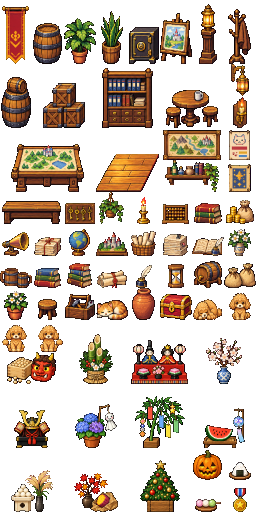
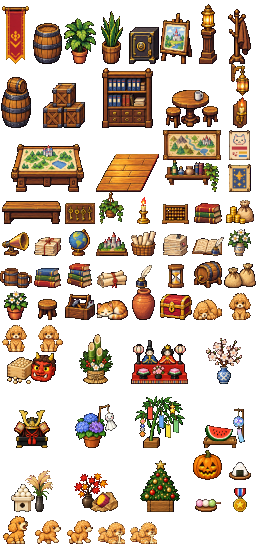
feat: 犬が吠える・横向きに歩く・骨をかじる 5 コマを decor.png に足す（#316）
codex 生成の生成元 3 枚と採用した指示書を assets/decor/ に入れ、
build_decor.py で decor.png の 17 行目に bark-poodle・walk-poodle-a/b・
bone-poodle-a/b を切り出す。縮尺は awake-poodle と同じ 1/4、2 コマの組は
マスの中の同じ窓で切り出して位置をそろえる。既存のコマの画素は変えない。

diff --git a/apps/web/sprite-sheets.test.ts b/apps/web/sprite-sheets.test.ts
@@ -140,9 +140,9 @@ describe('small things sheet (decor.png)', () => {
   const size = pngSize(asset('decor/decor.png'));
   const sheet = pngAlpha(asset('decor/decor.png'));
 
-  it('is 8 x 16 tiles of 32 px and holds every piece', () => {
-    expect(size).toEqual({ width: 8 * DECOR_TILE_SIZE, height: 16 * DECOR_TILE_SIZE });
-    expect(Object.keys(DECOR)).toHaveLength(68);
+  it('is 8 x 17 tiles of 32 px and holds every piece', () => {
+    expect(size).toEqual({ width: 8 * DECOR_TILE_SIZE, height: 17 * DECOR_TILE_SIZE });
+    expect(Object.keys(DECOR)).toHaveLength(73);
     expect(piecesOutside(DECOR, DECOR_TILE_SIZE, size)).toEqual([]);
   });
 
@@ -163,6 +163,18 @@ describe('small things sheet (decor.png)', () => {
       'onigiri',
       'dango',
       'medal',
+    ] as const) {
+      expect(drawnIn(sheet, pieceRect(DECOR[name], DECOR_TILE_SIZE))).toBe(true);
+    }
+  });
+
+  it('has the poodle barking, walking and chewing a bone (Issue #316)', () => {
+    for (const name of [
+      'bark-poodle',
+      'walk-poodle-a',
+      'walk-poodle-b',
+      'bone-poodle-a',
+      'bone-poodle-b',
     ] as const) {
       expect(drawnIn(sheet, pieceRect(DECOR[name], DECOR_TILE_SIZE))).toBe(true);
     }

diff --git a/assets/decor/decor.ts b/assets/decor/decor.ts
@@ -73,6 +73,12 @@ export const DECOR = {
   onigiri: { col: 7, row: 14, w: 1, h: 1 },
   dango: { col: 6, row: 15, w: 1, h: 1 },
   medal: { col: 7, row: 15, w: 1, h: 1 },
+  // The poodle barking, walking and chewing a bone (Issue #316).
+  'bark-poodle': { col: 0, row: 16, w: 1, h: 1 },
+  'walk-poodle-a': { col: 1, row: 16, w: 1, h: 1 },
+  'walk-poodle-b': { col: 2, row: 16, w: 1, h: 1 },
+  'bone-poodle-a': { col: 3, row: 16, w: 1, h: 1 },
+  'bone-poodle-b': { col: 4, row: 16, w: 1, h: 1 },
 } as const;
 
 export type DecorName = keyof typeof DECOR;

diff --git a/assets/decor/build_decor.py b/assets/decor/build_decor.py
@@ -1,7 +1,9 @@
-"""Normalize the codex-generated decor sheets (decor_raw_a/b/poodle/poodle_wag/month/small.png) into decor.png.
+"""Normalize the codex-generated decor sheets (decor_raw_a/b/poodle/poodle_wag/month/small/poodle_bark/
+poodle_walk/poodle_bone.png) into decor.png.
 
 Usage: python build_decor.py <decor_raw_a.png> <decor_raw_b.png> <decor_raw_poodle.png> <decor_raw_poodle_wag.png>
-       <decor_raw_month.png> <decor_raw_small.png> <decor.png>
+       <decor_raw_month.png> <decor_raw_small.png> <decor_raw_poodle_bark.png> <decor_raw_poodle_walk.png>
+       <decor_raw_poodle_bone.png> <decor.png>
 Ran with Python 3.14.7 and Pillow 12.3.0 (installed in a throwaway venv,
 not a project dependency).
 
@@ -21,6 +23,10 @@ prompt-small.txt) are drawn on 256px cells, each a little off the scale of the o
 scaled to its own FIT_SIZE (about 1/4 of the height the prompt asked for) and placed bottom-center
 in the smallest slot it fits. The tankard at the left of decor_raw_small.png is held, so it goes to
 props.png (build_props.py); its part of the sheet is outside RAW's window here and ignored.
+The poodle barking, walking and chewing a bone (decor_raw_poodle_bark/walk/bone.png, prompt-poodle-bark/
+walk/bone.txt, Issue #316) are drawn at awake-poodle's scale and shrunk by SCALE like it. Each is cut at
+its whole region (CROP_TO_REGION), the same window of its 128px cell in both frames of a pair, so the
+two frames line up when shown in turn.
 Keep LAYOUT in sync with decor.ts (checked before building).
 """
 
@@ -36,7 +42,7 @@ from PIL import Image, ImageChops, ImageFilter
 TILE = 32
 SCALE = TILE / 128
 SHEET_COLS = 8
-SHEET_ROWS = 16
+SHEET_ROWS = 17
 # Pieces scaled to this height in px instead of by SCALE, centred on the head: the middle of the
 # opaque run HEAD_ROW of the way down the piece (the wagging poodle's two frames, as tall as
 # awake-poodle).
@@ -45,6 +51,9 @@ HEAD_ROW = 0.3
 # Pieces cut at their region's edge instead of failing when they reach past it: tsukimi as it was
 # cut when the drawings were approved (the tip of the pampas grass right of x 265 left out).
 CLIP_TO_REGION = {"tsukimi"}
+# Pieces cut at their whole region instead of their drawn bbox (the region is the same window of the
+# cell in both frames of a pair, so the frames keep their place in the cell): the poodle of Issue #316.
+CROP_TO_REGION = {"bark-poodle", "walk-poodle-a", "walk-poodle-b", "bone-poodle-a", "bone-poodle-b"}
 # Pieces scaled so one side (h = height, w = width) is this many px instead of by SCALE: the month
 # decorations (Issue #192) and the rewards (Issue #194), at the sizes chosen when they were drawn.
 FIT_SIZE = {
@@ -72,6 +81,9 @@ MIN_PX = 40
 # a dark blend with the magenta key become the outline colour.
 SPILL_REACH = 3
 OUTLINE = (44, 26, 20)
+# Sheets whose outline also carries lighter magenta blends than is_spill catches (pink dots left on
+# the edge): there any magenta tint (is_tint) within SPILL_REACH of the key becomes OUTLINE too.
+TINTED = {"poodle_bark", "poodle_walk", "poodle_bone"}
 
 # The search regions below are measured on these exact files; refuse others.
 # After regenerating a raw sheet, re-measure its regions and update the hash.
@@ -84,6 +96,9 @@ RAW = {
[6 lines of base64/hex data omitted]
 }
 
 # name: (raw sheet, search region (left, top, right, bottom) in raw pixels,
@@ -160,6 +175,13 @@ LAYOUT = {
     "onigiri": ("small", (325, 0, 512, 256), 7, 14, 1, 1),
     "dango": ("small", (512, 0, 735, 256), 6, 15, 1, 1),
     "medal": ("small", (735, 0, 1024, 256), 7, 15, 1, 1),
+    # The poodle barking toward the door, walking sideways and chewing a bone (Issue #316). Each
+    # region is the bbox of the drawing (for a pair, of both frames, in its own cell).
+    "bark-poodle": ("poodle_bark", (272, 264, 372, 376), 0, 16, 1, 1),
+    "walk-poodle-a": ("poodle_walk", (268, 281, 372, 378), 1, 16, 1, 1),
+    "walk-poodle-b": ("poodle_walk", (652, 281, 756, 378), 2, 16, 1, 1),
+    "bone-poodle-a": ("poodle_bone", (269, 288, 378, 376), 3, 16, 1, 1),
+    "bone-poodle-b": ("poodle_bone", (653, 288, 762, 376), 4, 16, 1, 1),
 }
 
 
@@ -173,9 +195,16 @@ def is_spill(px):
     return r - g > 40 and b - g > 40 and abs(r - b) < 80
 
 
-def keyed(img):
+def is_tint(px):
+    r, g, b = px[:3]
+    return r - g >= 20 and b - g >= 20
+
+
+def keyed(img, tinted=False):
     """RGBA copy: the chroma key becomes transparent, and dark magenta blends
-    on the outline (within SPILL_REACH of the key) become OUTLINE."""
+    on the outline (within SPILL_REACH of the key) become OUTLINE (any magenta
+    tint there, when tinted)."""
+    spill = (lambda p: is_spill(p) or is_tint(p)) if tinted else is_spill
     rgb = img.convert("RGB")
     key = Image.new("L", rgb.size)
     key.putdata([255 if is_key(p) else 0 for p in rgb.get_flattened_data()])
@@ -185,7 +214,7 @@ def keyed(img):
     for p, k, n in zip(rgb.get_flattened_data(), key.get_flattened_data(), near.get_flattened_data()):
         if k:
             out.append((0, 0, 0, 0))
-        elif n and is_spill(p):
+        elif n and spill(p):
             out.append((*OUTLINE, 255))
         else:
             out.append((p[0], p[1], p[2], 255))
@@ -268,6 +297,8 @@ def find_pieces(sheet_id, img):
             bbox = (max(bbox[0], region[0]), max(bbox[1], region[1]), min(bbox[2], region[2]), min(bbox[3], region[3]))
         elif not (region[0] <= bbox[0] and region[1] <= bbox[1] and bbox[2] <= region[2] and bbox[3] <= region[3]):
             raise SystemExit(f"{name}: drawn pixels {bbox} reach outside its region {region}")
+        elif name in CROP_TO_REGION:
+            bbox = region
         mask = Image.new("L", img.size)
         wanted = set(mine)
         mask.putdata([255 if label in wanted else 0 for label in labels])
@@ -379,7 +410,7 @@ def load_raw(sheet_id, path):
     img = Image.open(path)
     if img.size != size:
         raise SystemExit(f"expected a {size} raw sheet {sheet_id}, got {img.size}")
-    img = keyed(img)
+    img = keyed(img, sheet_id in TINTED)
     if window is None:
         return img
     read = Image.new("RGBA", size, (0, 0, 0, 0))
@@ -391,8 +422,9 @@ def same_file(a, b):
     return os.path.realpath(a) == os.path.realpath(b) or (os.path.exists(b) and os.path.samefile(a, b))
 
 
-def main(src_a, src_b, src_poodle, src_wag, src_month, src_small, dst):
-    if any(same_file(src, dst) for src in (src_a, src_b, src_poodle, src_wag, src_month, src_small)):
+def main(src_a, src_b, src_poodle, src_wag, src_month, src_small, src_bark, src_walk, src_bone, dst):
+    sources = (src_a, src_b, src_poodle, src_wag, src_month, src_small, src_bark, src_walk, src_bone)
+    if any(same_file(src, dst) for src in sources):
         raise SystemExit("output path must differ from the source images")
     check_slots()
     check_decor_ts()
@@ -403,6 +435,9 @@ def main(src_a, src_b, src_poodle, src_wag, src_month, src_small, dst):
         "poodle_wag": load_raw("poodle_wag", src_wag),
         "month": load_raw("month", src_month),
         "small": load_raw("small", src_small),
+        "poodle_bark": load_raw("poodle_bark", src_bark),
+        "poodle_walk": load_raw("poodle_walk", src_walk),
+        "poodle_bone": load_raw("poodle_bone", src_bone),
     }
     sheet = Image.new("RGBA", (SHEET_COLS * TILE, SHEET_ROWS * TILE), (0, 0, 0, 0))
     placed = set()
@@ -418,9 +453,10 @@ def main(src_a, src_b, src_poodle, src_wag, src_month, src_small, dst):
 
 
 if __name__ == "__main__":
-    if len(sys.argv) != 8:
+    if len(sys.argv) != 11:
         raise SystemExit(
             "usage: python build_decor.py <decor_raw_a.png> <decor_raw_b.png> <decor_raw_poodle.png>"
-            " <decor_raw_poodle_wag.png> <decor_raw_month.png> <decor_raw_small.png> <decor.png>"
+            " <decor_raw_poodle_wag.png> <decor_raw_month.png> <decor_raw_small.png> <decor_raw_poodle_bark.png>"
+            " <decor_raw_poodle_walk.png> <decor_raw_poodle_bone.png> <decor.png>"
         )
-    main(*sys.argv[1:8])
+    main(*sys.argv[1:11])
